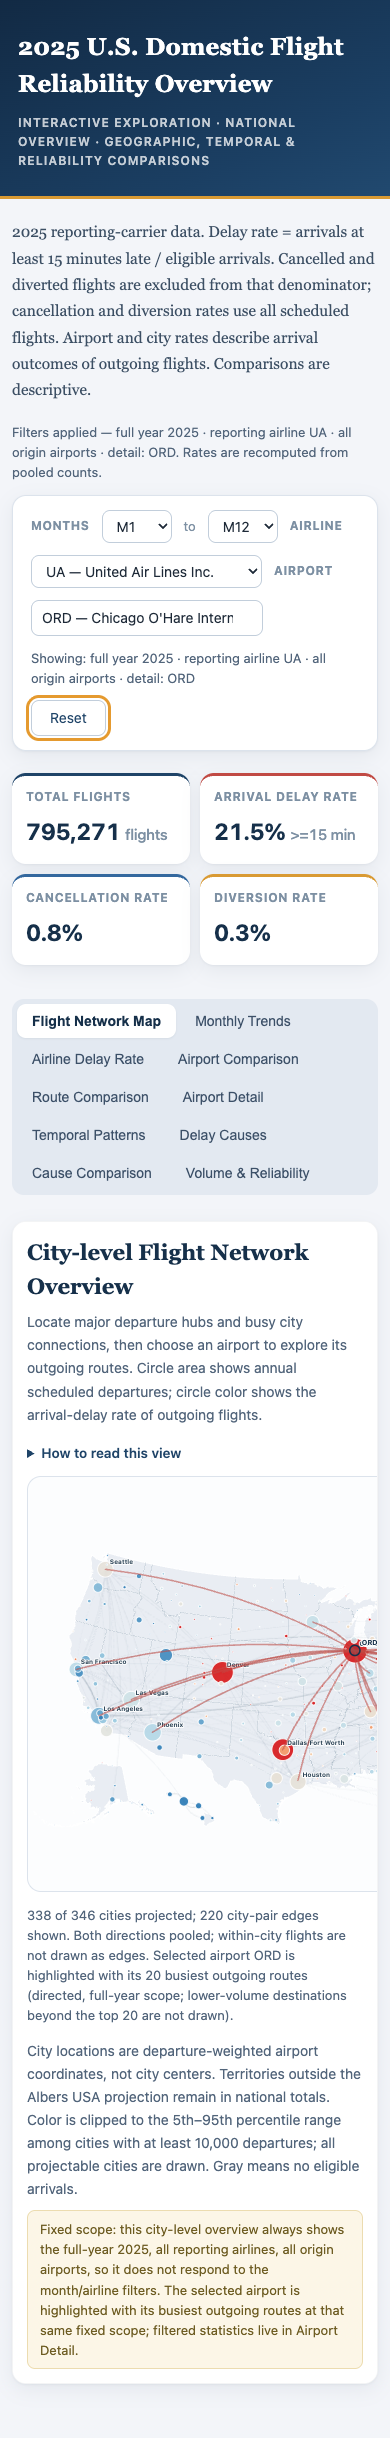
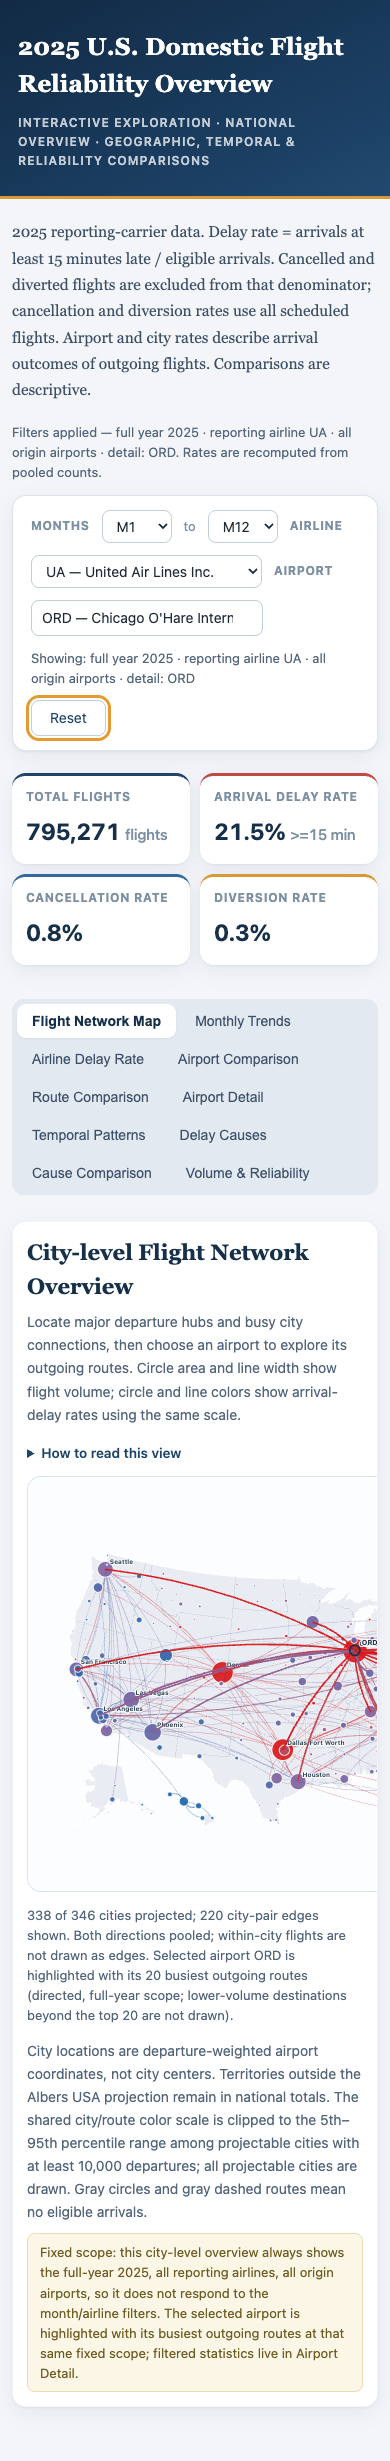
bugfix: map routes color render

Changed region(s): [[0.0308, 0.0312, 0.9846, 0.7482], [0.0615, 0.7793, 0.9231, 0.9664]]

diff --git a/site/js/charts.js b/site/js/charts.js
@@ -986,13 +986,7 @@ function drawNetworkMap(nationalRow, isLatest = null, selection = null, onPickCi
 
     const routeWidth = d3.scaleSqrt()
       .domain(d3.extent(proutes,d=>+d.scheduled_flights))
-      .range([0.35,2.25]);
-
-    svg.append("g").selectAll("path")
-      .data(proutes).join("path")
-      .attr("class",d=>d.rank<=25 ? "map-route top":"map-route")
-      .attr("stroke-width",d=>routeWidth(+d.scheduled_flights))
-      .attr("d",d=>cityArc(d.a.x,d.a.y,d.b.x,d.b.y));
+      .range([0.7,2.25]);
 
     const rates = pcities.filter(d=>+d.scheduled_flights>=10000 && hasNumber(d.arrival_delay_rate))
       .map(d=>+d.arrival_delay_rate).sort(d3.ascending);
@@ -1003,8 +997,29 @@ function drawNetworkMap(nationalRow, isLatest = null, selection = null, onPickCi
 
     const color=d3.scaleDiverging()
       .domain([low,national,high])
-      .interpolator(t=>d3.interpolateRgbBasis(["#2c7bb6","#abd9e9","#f1f1f1","#fdae61","#d7191c"])(t))
+      // Keep the national midpoint visible against the pale map background.
+      .interpolator(d3.piecewise(d3.interpolateLab, ["#2166ac","#8064a2","#d7191c"]))
       .clamp(true);
+
+    // Routes use the same legend as cities. Derive their rates from pooled
+    // delayed/eligible counts; an unobserved rate must never become zero.
+    const routeColor = row => {
+      const rate = nationalRate(row);
+      return rate == null ? '#777' : color(rate);
+    };
+    const routeDash = row => nationalRate(row) == null ? '4 3' : null;
+    svg.append("g").selectAll("path")
+      .data(proutes).join("path")
+      .attr("class",d=>d.rank<=25 ? "map-route top":"map-route")
+      .style("stroke", routeColor)
+      .attr("stroke-dasharray", routeDash)
+      .attr("stroke-width",d=>routeWidth(+d.scheduled_flights))
+      .attr("d",d=>cityArc(d.a.x,d.a.y,d.b.x,d.b.y))
+      .on("mousemove", (event, row) => showTip(
+        `${row.city_a} ↔ ${row.city_b}<br>Flights: ${fmtNum(+row.scheduled_flights)}`
+        + `<br>Delay rate: ${fmtPct(nationalRate(row))}<br>Eligible arrivals: ${fmtNum(+row.eligible_arrivals)}`
+        + `<br>Delayed arrivals: ${fmtNum(+row.delayed_arrivals)}<br>City pair · both directions · full-year, all airlines`, event))
+      .on("mouseleave", hideTip);
 
     const radius=d3.scaleSqrt()
       .domain([0,d3.max(pcities,d=>+d.scheduled_flights)])
@@ -1048,10 +1063,14 @@ function drawNetworkMap(nationalRow, isLatest = null, selection = null, onPickCi
         svg.append("g").selectAll("path")
           .data(shown).join("path")
           .attr("class", "map-outgoing")
+          .style("stroke", routeColor)
+          .attr("stroke-dasharray", routeDash)
           .attr("stroke-width", d => outgoingWidth(+d.scheduled_flights))
           .attr("d", d => cityArc(origin[0], origin[1], d.xy[0], d.xy[1]))
           .on("mousemove", (e,d) => showTip(
-            `${selection.code} → ${d.Dest}<br>Flights: ${fmtNum(+d.scheduled_flights)}<br>Delay rate: ${fmtPct(+d.arrival_delay_rate)}<br>Directed · full-year, all airlines`, e))
+            `${selection.code} → ${d.Dest}<br>Flights: ${fmtNum(+d.scheduled_flights)}<br>Delay rate: ${fmtPct(nationalRate(d))}`
+            + `<br>Eligible arrivals: ${fmtNum(+d.eligible_arrivals)}<br>Delayed arrivals: ${fmtNum(+d.delayed_arrivals)}`
+            + `<br>Directed · full-year, all airlines`, e))
           .on("mouseleave", hideTip);
         svg.append("circle")
           .attr("class", "map-airport-selected")
@@ -1086,7 +1105,7 @@ function cityArc(x1,y1,x2,y2) {
 
 function drawNetworkLegend(svg,radius,low,national,high,W,color) {
   const g=svg.append("g").attr("transform",`translate(${W-236},34)`);
-  g.append("rect").attr("class","map-legend-box").attr("width",208).attr("height",235).attr("rx",10);
+  g.append("rect").attr("class","map-legend-box").attr("width",208).attr("height",290).attr("rx",10);
 
   g.append("text").attr("class","map-legend-title").attr("x",14).attr("y",24).text("Traffic volume");
   const vals=[50000,150000,300000], xs=[34,92,158];
@@ -1112,13 +1131,17 @@ function drawNetworkLegend(svg,radius,low,national,high,W,color) {
   g.append("text").attr("class","map-legend-text").attr("x",194).attr("y",161).attr("text-anchor","end")
     .text(d3.format(".1%")(high));
 
-  g.append("text").attr("class","map-legend-title").attr("x",14).attr("y",190).text("Route arcs");
+  g.append("text").attr("class","map-legend-title").attr("x",14).attr("y",190).text("Route width = volume");
   g.append("line").attr("x1",14).attr("x2",72).attr("y1",207).attr("y2",207)
     .attr("stroke","#5a7180").attr("stroke-width",1).attr("stroke-opacity",.35);
   g.append("text").attr("class","map-legend-text").attr("x",82).attr("y",211).text("lower volume");
   g.append("line").attr("x1",14).attr("x2",72).attr("y1",225).attr("y2",225)
     .attr("stroke","#5a7180").attr("stroke-width",3).attr("stroke-opacity",.45);
   g.append("text").attr("class","map-legend-text").attr("x",82).attr("y",229).text("higher volume");
+  g.append("line").attr("x1",14).attr("x2",72).attr("y1",249).attr("y2",249)
+    .attr("stroke","#777").attr("stroke-width",2).attr("stroke-dasharray","4 3");
+  g.append("text").attr("class","map-legend-text").attr("x",82).attr("y",253).text("No eligible arrivals");
+  g.append("text").attr("class","map-legend-text").attr("x",14).attr("y",277).text("Color scale: cities and routes");
 }
 
 

diff --git a/site/index.html b/site/index.html
@@ -233,14 +233,14 @@
   <div class="tab-panel active" id="tab-network">
     <section>
       <h2>City-level Flight Network Overview</h2>
-      <p class="sub">Locate major departure hubs and busy city connections, then choose an airport to explore its outgoing routes. Circle area shows annual scheduled departures; circle color shows the arrival-delay rate of outgoing flights.</p>
+      <p class="sub">Locate major departure hubs and busy city connections, then choose an airport to explore its outgoing routes. Circle area and line width show flight volume; circle and line colors show arrival-delay rates using the same scale.</p>
       <details class="chart-guide">
         <summary>How to read this view</summary>
         <ul>
-          <li>The overview pools airports into cities. Curved lines show up to 220 busiest projectable city-pairs, combining both directions; line width represents flight volume. Within-city flights are not drawn as city-pair edges.</li>
+          <li>The overview pools airports into cities. Curved lines show up to 220 busiest projectable city-pairs, combining both directions. Line width represents scheduled flights; line color represents delayed / eligible arrivals for that connection. Within-city flights are not drawn as city-pair edges.</li>
           <li>Click a city to choose an airport; cities with several airports ask which one you mean. A selected airport adds its busiest outgoing directed routes at full-year, all-airline scope. Filtered statistics are in Airport Detail.</li>
           <li>The map stays at full-year 2025 scope. It uses departure-weighted airport coordinates and excludes nonprojectable locations only from drawing, not from national totals. All airports remain reachable through the airport selector.</li>
-          <li>Delay rate uses eligible arrivals. Color is clipped to a documented percentile range, so similar colors do not guarantee identical rates; hover a city for its value and member airports.</li>
+          <li>Circles and both route layers share the legend's clipped color scale: blue below the national average, purple at the average, and red above it. Gray dashed routes have no eligible arrivals; an observed 0% rate uses the blue end. Similar colors do not guarantee identical rates beyond the clipped range. Hover cities or route lines for exact values.</li>
         </ul>
       </details>
       <div class="network-map-wrap">
@@ -248,7 +248,7 @@
       </div>
       <p id="network-status" role="status"></p>
       <div class="sub" style="margin-top:10px;margin-bottom:0">
-        City locations are departure-weighted airport coordinates, not city centers. Territories outside the Albers USA projection remain in national totals. Color is clipped to the 5th–95th percentile range among cities with at least 10,000 departures; all projectable cities are drawn. Gray means no eligible arrivals.
+        City locations are departure-weighted airport coordinates, not city centers. Territories outside the Albers USA projection remain in national totals. The shared city/route color scale is clipped to the 5th–95th percentile range among projectable cities with at least 10,000 departures; all projectable cities are drawn. Gray circles and gray dashed routes mean no eligible arrivals.
       </div>
       <p class="scope-note">Fixed scope: this city-level overview always shows the full-year 2025, all reporting airlines, all origin airports, so it does not respond to the month/airline filters. The selected airport is highlighted with its busiest outgoing routes at that same fixed scope; filtered statistics live in Airport Detail.</p>
     </section>

diff --git a/site/css/style.css b/site/css/style.css
@@ -334,7 +334,7 @@ section svg { width: 100%; height: auto; display: block; }
 }
 
 .map-node { cursor: pointer; }
-.map-outgoing { fill: none; stroke: var(--red); stroke-opacity: .55; stroke-linecap: round; }
+.map-outgoing { fill: none; stroke-opacity: .95; stroke-linecap: round; }
 .map-airport-selected { fill: rgba(22, 48, 74, .15); stroke: var(--ink-800); stroke-width: 2.5; }
 .map-airport-label {
   font-size: 11px; font-weight: 700; fill: var(--ink-800);
@@ -367,10 +367,10 @@ section svg { width: 100%; height: auto; display: block; }
 .map-state { fill: #e9edf3; stroke: #fff; stroke-width: 1.1; }
 .map-state-border { fill: none; stroke: #b8c5d0; stroke-width: .75; pointer-events: none; }
 .map-route {
-  fill: none; stroke: #57707f; stroke-opacity: .115;
-  stroke-linecap: round; mix-blend-mode: multiply;
+  fill: none; stroke-opacity: .4;
+  stroke-linecap: round;
 }
-.map-route.top { stroke-opacity: .21; }
+.map-route.top { stroke-opacity: .6; }
 .map-node { stroke: #fff; stroke-width: 1.35; }
 .map-hub-label {
   font-size: 10px; font-weight: 700; fill: #31485a;

diff --git a/README.md b/README.md
@@ -43,6 +43,16 @@ The city-level Flight Network Map is the first tab and the initial/reset view.
 Selecting a different airport preserves the active tab; open Airport Detail
 explicitly when you want its detailed statistics.
 
+City-pair connections and selected-airport outgoing routes use their pooled
+arrival-delay rates for line color, sharing the city legend's clipped scale:
+blue below the national average, purple at the average, and red above it.
+City routes use 40% opacity (60% for the busiest 25) to reduce clutter; selected-airport
+routes use 95% opacity. The saturated midpoint and minimum city-route width keep
+near-average routes visible against the pale map. Line width represents scheduled
+flight volume. Gray dashed routes have no
+eligible arrivals; observed 0% rates use the blue end of the scale. Hover a route
+for its counts, denominator, and exact rate.
+
 The dashboard has ten tabs: monthly trends, airline comparison, airport comparison,
 directed-route comparison, Airport Detail, temporal patterns, national reported
 delay-cause composition, comparative cause bars, volume–reliability scatterplot, and
@@ -188,6 +198,13 @@ state, aggregation, ranking, and display-name checks. Navigation checks run with
 map-first/reset view, airport selection across all ten tabs, readable code labels,
 and narrow-screen layout. Outputs are `docs/assets/navigation/` and
 [reports/site_validation_navigation.json](reports/site_validation_navigation.json).
+
+`NODE_PATH=<playwright modules> node scripts/qa_map_colors.cjs` checks rendered
+city-pair and directed-route strokes against pooled counts and the shared legend,
+including alpha-composited contrast against land, synthetic missing/zero cases,
+and a real-pointer tooltip check. Evidence
+is stored in [reports/site_validation_map_colors.json](reports/site_validation_map_colors.json)
+and `docs/assets/map-colors/`.
 
 JavaScript checks run on **Node 24** (pinned in [.nvmrc](.nvmrc) and declared by the
 `engines` field in `package.json` — it documents intent but does not stop a directly

diff --git a/docs/2026-10-05-next-phase-plan.md b/docs/2026-10-05-next-phase-plan.md
@@ -59,6 +59,20 @@ not implement any batch. That initial assignment is historical; current status f
   covers all 14 reporting codes. [Navigation evidence](../reports/site_validation_navigation.json)
   checks selection across all ten tabs. Reporting-carrier codes and stable airport
   IDs remain the analytical keys, and no rate definition or data aggregate changed.
+- **Map route-color repair: implemented on October 17.** Removed fixed gray city
+  route strokes and fixed red airport-route strokes. Both now use pooled delayed /
+  eligible counts and the same clipped legend scale as city nodes. Width still
+  represents scheduled flights; missing rates use gray dashed lines, while observed
+  zeros use the blue end. Route tooltips expose counts and the actual rate, and the
+  legend explicitly distinguishes width from color. [Color validation](../reports/site_validation_map_colors.json)
+  reconciles computed strokes for 220 city-pair routes and 20 ORD outgoing routes,
+  with synthetic zero/missing fixtures and real-pointer missing-rate hover.
+  The follow-up visibility refinement uses blue–purple–red with the national
+  average at the purple midpoint and a 0.7-unit minimum city-route width. City-route
+  opacity is 40% (60% for the busiest 25) to reduce clutter; selected-airport routes
+  remain at 95%. The validation records alpha-composited route contrast against
+  land as descriptive evidence, without imposing a contrast threshold or claiming
+  accessibility certification.
 - **Data baseline:** the retained [verification record](../reports/verification.json)
   covers all twelve months of 2025 and 7,001,619 flight records. This documentation
   update does not rerun preparation or full-year verification.
